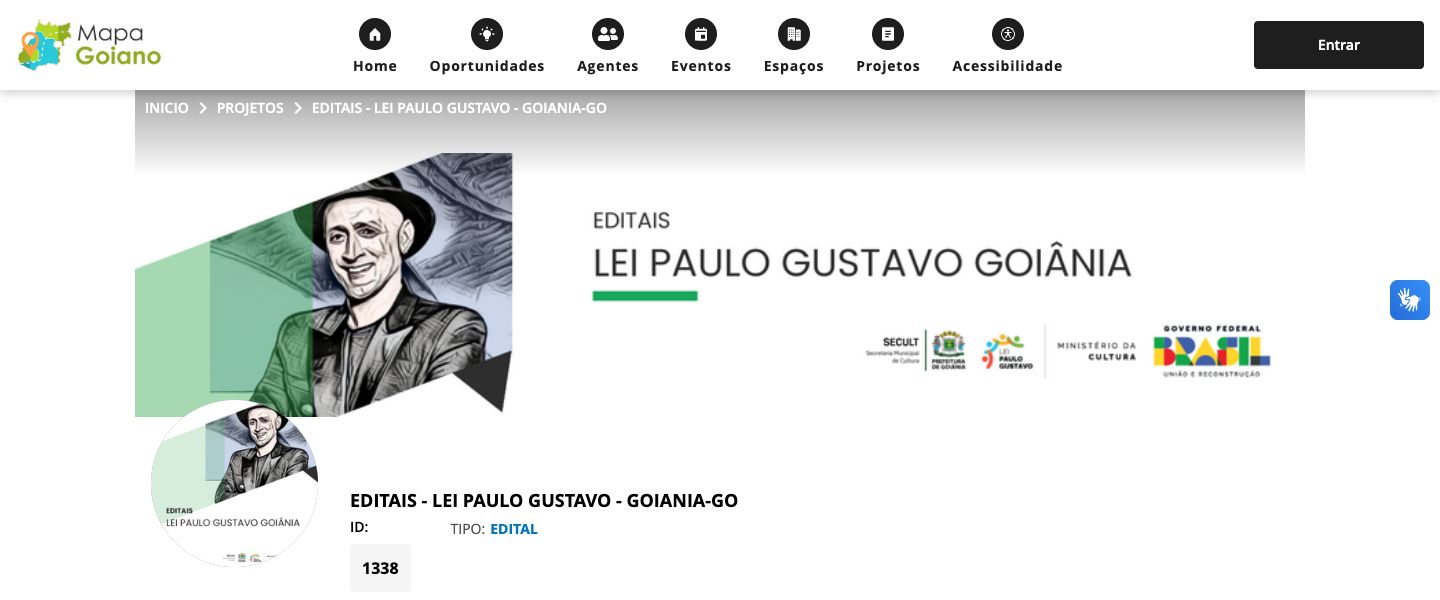
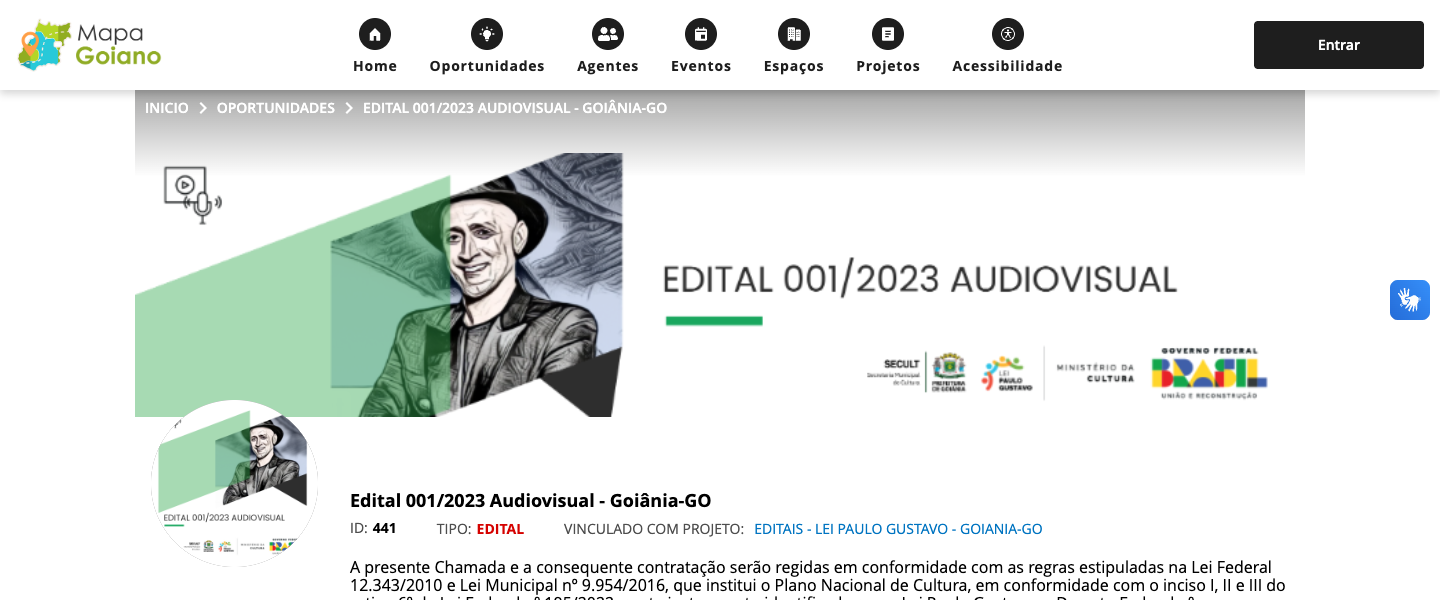
Usa edital de audiovisual na capa do projeto de Goiânia

diff --git a/src/assets/projetos/README.md b/src/assets/projetos/README.md
@@ -10,7 +10,7 @@ Use o slug do Markdown como nome do PNG. As capturas são feitas em **1440 × 60
 | `cianorte-mapas-culturais.png`              | [Mapa Cultural de Cianorte](https://cultura.cianorte.pr.gov.br/)                                                      |
 | `aparecida-portal-da-cultura-pnab-2026.png` | [Portal da Cultura de Aparecida de Goiânia](https://portaldacultura.aparecida.go.gov.br/)                             |
 | `campo-mourao-pnab-2026.png`                | [Edital Campo das Artes, PNAB 01/2026](https://mapas.campomourao.pr.gov.br/oportunidade/87/)                          |
-| `goiania-mapa-goiano-brasil-criativo.png`   | [Editais da Lei Paulo Gustavo em Goiânia](https://mapagoiano.cultura.go.gov.br/projeto/1338/)                         |
+| `goiania-mapa-goiano-brasil-criativo.png`   | [Edital 001/2023 de audiovisual da LPG em Goiânia](https://mapagoiano.cultura.go.gov.br/oportunidade/441/)           |
 | `uruacu-lpg-2024.png`                       | [Edital de audiovisual da Lei Paulo Gustavo em Uruaçu](https://mapagoiano.cultura.go.gov.br/oportunidade/447/)        |
 | `aparecida-lpg-2024.png`                    | [Edital de premiação da Lei Paulo Gustavo em Aparecida](https://portaldacultura.aparecida.go.gov.br/oportunidade/60/) |
 | `uruacu-pnab-2024-2025.png`                 | [Edital de Pontos de Cultura da PNAB em Uruaçu](https://mapa.culturagoias.com.br/oportunidade/5/)                     |
